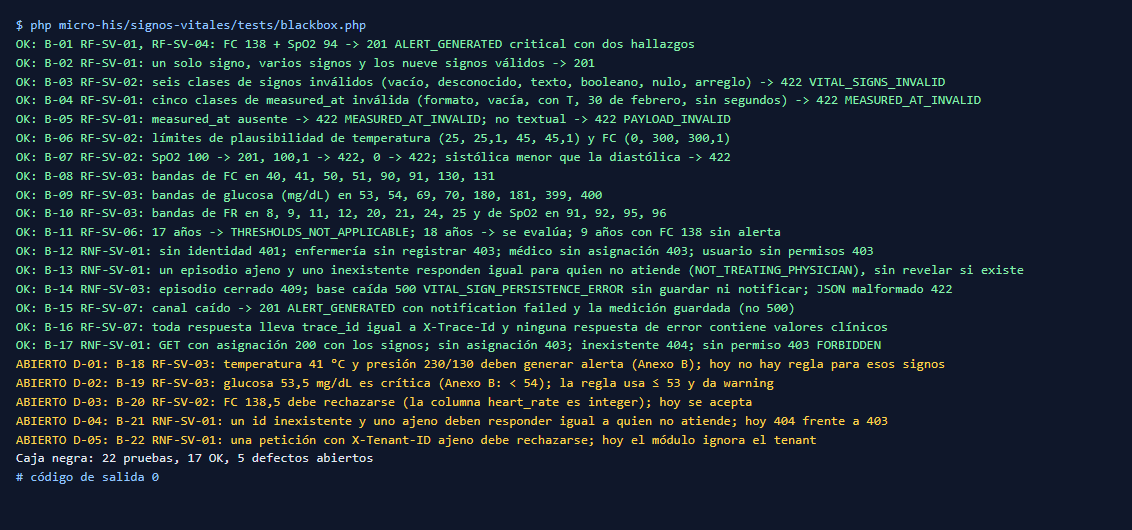
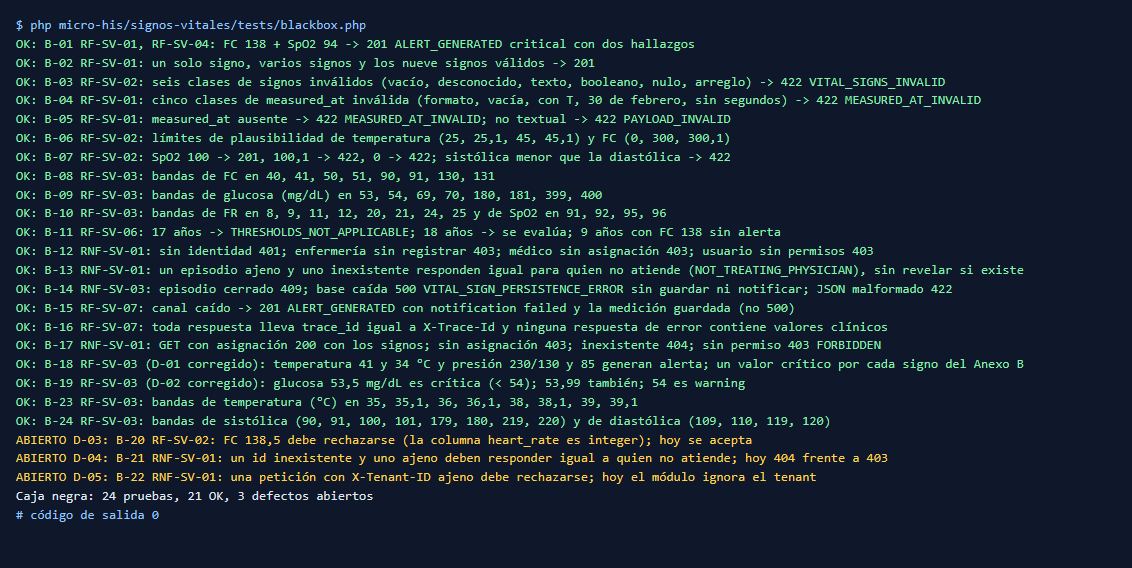
docs(semana-15): documentar la corrección de umbrales con su limitación clínica, actualizar la matriz y las capturas (ASII-13)

Changed region(s): [[0.0, 0.0302, 0.8966, 0.9358]]

diff --git a/docs/signos-vitales/semana-15/README.md b/docs/signos-vitales/semana-15/README.md
@@ -1,6 +1,6 @@
 # Signos vitales y alertas por valores anormales — Semana 15: pruebas unitarias, de caja blanca y de caja negra
 
-**Estudiante:** Hicho García, Josué Fernando (`Jhos-hgnu`) · **Módulo:** ASII-13 — Signos vitales y alertas por valores anormales · **Entrega:** 54 pruebas trazadas a RF/RNF, comandos, resultados, capturas y 6 defectos registrados.
+**Estudiante:** Hicho García, Josué Fernando (`Jhos-hgnu`) · **Módulo:** ASII-13 — Signos vitales y alertas por valores anormales · **Entrega:** 59 pruebas trazadas a RF/RNF, comandos, resultados, capturas y 6 defectos registrados (2 corregidos).
 
 ## Ficha de la asignación
 
@@ -20,26 +20,26 @@ PHP 8.3.33, ejecutado el 2026-10-20 sobre la rama de la Semana 15 (corrección d
 
 ```bash
 cd micro-his/signos-vitales
-php tests/unit.php        # 15 pruebas
+php tests/unit.php        # 18 pruebas
 php tests/whitebox.php    # 17 pruebas
-php tests/blackbox.php    # 22 pruebas
+php tests/blackbox.php    # 24 pruebas
 php tests/run.php && php tests/repository.php && php tests/api.php && php tests/client.php   # regresión: 56
 ```
 
 | Suite | Pruebas | OK | Fallos | Defectos abiertos | Captura |
 |---|---|---|---|---|---|
-| Unitarias (`unit.php`) | 15 | 14 | 0 | 1 | [unit](./capturas/unit.png) |
+| Unitarias (`unit.php`) | 18 | 17 | 0 | 1 | [unit](./capturas/unit.png) |
 | Caja blanca (`whitebox.php`) | 17 | 17 | 0 | 0 | [whitebox](./capturas/whitebox.png) |
-| Caja negra (`blackbox.php`) | 22 | 17 | 0 | 5 | [blackbox](./capturas/blackbox.png) |
+| Caja negra (`blackbox.php`) | 24 | 21 | 0 | 3 | [blackbox](./capturas/blackbox.png) |
 | Regresión (`run.php`, `repository.php`, `api.php`, `client.php`) | 56 | 56 | 0 | 0 | [regresion](./capturas/regresion.png) |
 
 Una prueba de defecto («ABIERTO») no rompe la suite; pasa a «OK» cuando el defecto se corrige. Un fallo sí termina con código 1.
 
 ## Diseño de las pruebas
 
-- **Unitarias (U-01 a U-14, más la prueba del defecto D-06):** una clase por vez, sin adaptadores: `VitalSigns` (rangos y presión), `HeartRateRule`, `OxygenSaturationRule`, `GlucoseRule`, `NoAlertRule`, `ThresholdEvaluator`, `Assessment`, `Severity` y `Uuid`. U-13 fija la unidad de las reglas (mg/dL).
+- **Unitarias (U-01 a U-17, más la prueba del defecto D-06):** una clase por vez, sin adaptadores: `VitalSigns` (rangos y presión), `HeartRateRule`, `OxygenSaturationRule`, `GlucoseRule`, `NoAlertRule`, `ThresholdEvaluator`, `Assessment`, `Severity` y `Uuid`. U-13 fija la unidad de las reglas (mg/dL).
 - **Caja blanca (W-01 a W-17):** `RecordVitalSigns::execute` se recorre en todas sus ramas (**12 de 12**: dominio, tres condiciones de la fecha, sin asignación, episodio cerrado, edad menor y mayor de 18, sin alerta, alerta con canal sano, canal caído con y sin manejador, y el orden de los pasos) y `ApiKernel::route` en sus **6 salidas** (fuera de `/api/v1`, sin identidad, ruta sin permiso, RBAC caído, sin permiso y permiso presente). Los espías cuentan las llamadas a `contextFor` y al canal para probar el orden y las omisiones.
-- **Caja negra (B-01 a B-22):** solo por `ApiKernel`, sin mirar el código. Clases válidas e inválidas de signos (seis) y de `measured_at` (cinco más ausente y no textual), límites de plausibilidad y de las bandas de FC, glucosa, FR y SpO2, edad 17 y 18, permisos (401, 403 por rol, por asignación y por falta de permisos), falla segura, canal caído, `trace_id` y consulta.
+- **Caja negra (B-01 a B-24):** solo por `ApiKernel`, sin mirar el código. Clases válidas e inválidas de signos (seis) y de `measured_at` (cinco más ausente y no textual), límites de plausibilidad y de las bandas de FC, glucosa, FR y SpO2, edad 17 y 18, permisos (401, 403 por rol, por asignación y por falta de permisos), falla segura, canal caído, `trace_id` y consulta.
 
 ## Matriz RF/RNF → prueba
 
@@ -47,13 +47,13 @@ Una prueba de defecto («ABIERTO») no rompe la suite; pasa a «OK» cuando el d
 |---|---|---|
 | RF-SV-01 · registrar solo el médico tratante, fecha válida | W-02 a W-06, W-12, B-01, B-02, B-04, B-05 | Cubierto |
 | RF-SV-02 · rechazar lo imposible | U-01 a U-03, W-01, B-03, B-06, B-07 | Cubierto; **D-03** |
-| RF-SV-03 · evaluar cada signo presente contra su umbral | U-04 a U-06, U-08, B-08 a B-10 | Parcial; **D-01**, **D-02** |
+| RF-SV-03 · evaluar cada signo presente contra su umbral | U-04 a U-06, U-08, U-15 a U-17, B-08 a B-10, B-18, B-19, B-23, B-24 | Cubierto; **D-01** y **D-02** corregidos |
 | RF-SV-04 · severidad máxima y alerta | U-09 a U-12, B-01 | Cubierto |
 | RF-SV-05 · peso y talla sin alerta | U-07, B-02 | Cubierto |
 | RF-SV-06 · sin perfil, guardar y avisar | W-07, B-11 | Cubierto |
 | RF-SV-07 · auditar y notificar después del `COMMIT` | W-08 a W-11, B-14 a B-16, regresión (`run.php`) | Cubierto |
 | RNF-SV-01 · seguridad | W-13 a W-17, B-12, B-13, B-17 | Parcial; **D-04**, **D-05**; la identidad por cabecera no se puede probar como defecto |
-| RNF-SV-02 · seguridad del paciente (ninguna regla oculta otra alerta) | U-08, B-01 | Cubierto; **D-01** (signos sin regla) |
+| RNF-SV-02 · seguridad del paciente (ninguna regla oculta otra alerta) | U-08, B-01 | Cubierto (D-01 corregido: ya todo signo del Anexo B tiene regla) |
 | RNF-SV-03 · consistencia | W-10, B-14, B-15, regresión | Cubierto |
 | RNF-SV-04 · rendimiento | — | **No probado aquí**: `bench.php` de la Semana 5 |
 | RNF-SV-05 · mantenibilidad (LSP) | U-08 | Cubierto |
@@ -63,8 +63,8 @@ Una prueba de defecto («ABIERTO») no rompe la suite; pasa a «OK» cuando el d
 
 | ID | Sev. | Prueba | Defecto | Corrección propuesta |
 |---|---|---|---|---|
-| **D-01** | Crítico | B-18 | **Temperatura, sistólica y diastólica no tienen regla de umbral**: 41 °C, 34 °C, 230/130 y 85 mmHg se guardan con `201 OK` y no generan alerta, aunque el Anexo B de la Semana 1 las define | Agregar tres subtipos de `RangeRule` con las bandas del Anexo B, validadas por el responsable clínico (riesgo R-01, métrica Q-06) |
-| **D-02** | Mayor | B-19 | La glucosa de 53,5 mg/dL es `warning`; el Anexo B dice crítica para `< 54`, y la regla usa `≤ 53`. Con decimales (por ejemplo 2,95 mmol/L = 53,15 mg/dL) hay una banda mal clasificada | Cambiar el límite a `< 54` o declarar las bandas como enteras y rechazar decimales |
+| **D-01** | Crítico | B-18 | **Temperatura, sistólica y diastólica no tienen regla de umbral**: 41 °C, 34 °C, 230/130 y 85 mmHg se guardan con `201 OK` y no generan alerta, aunque el Anexo B de la Semana 1 las define | **Corregido** ([umbrales](./umbrales/README.md)). Agregar tres subtipos de `RangeRule` con las bandas del Anexo B, validadas por el responsable clínico (riesgo R-01, métrica Q-06) |
+| **D-02** | Mayor | B-19 | La glucosa de 53,5 mg/dL es `warning`; el Anexo B dice crítica para `< 54`, y la regla usa `≤ 53`. Con decimales (por ejemplo 2,95 mmol/L = 53,15 mg/dL) hay una banda mal clasificada | **Corregido** ([umbrales](./umbrales/README.md)). Cambiar el límite a `< 54` o declarar las bandas como enteras y rechazar decimales |
 | **D-03** | Menor | B-20 | FC, FR y presión aceptan decimales (138,5), pero la columna es `integer` | Aceptar enteros en esos signos (decisión con Javier, riesgo R-10) |
 | **D-04** | Menor | B-21 | Un id inexistente responde `404` y uno ajeno `403`: se pueden enumerar identificadores (P-4) | Autorizar el episodio antes de revelar si la medición existe |
 | **D-05** | Crítico | B-22 | El módulo ignora `X-Tenant-ID`: una petición con un tenant ajeno se acepta (P-1, riesgo R-04) | Resolver el tenant en `ApiKernel` y acotar los repositorios, o documentar qué capa lo garantiza |

diff --git a/docs/signos-vitales/semana-15/umbrales/README.md b/docs/signos-vitales/semana-15/umbrales/README.md
@@ -1,0 +1,89 @@
+# Corrección de D-01 y D-02: reglas de umbral que faltaban (Semana 15)
+
+**Estudiante:** Hicho García, Josué Fernando (`Jhos-hgnu`) · **Módulo:** ASII-13 — Signos vitales y alertas por valores anormales · **Entrega:** corrección de dos defectos registrados por las [pruebas de la Semana 15](../README.md#defectos-registrados).
+
+## Aviso importante sobre estas cifras
+
+Las bandas de este documento son las del Anexo B de la [Semana 1](../../semana-01/narrativa-alcance-trazabilidad.md): un **perfil de referencia académico, ilustrativo, contrastado con NEWS2 y ADA por el autor, que no es médico ni tiene formación clínica certificada**. No tiene revisión clínica profesional y **no es apto para uso asistencial**. Quien lo adopte para atender pacientes debe hacerlo revisar por personal clínico. La revisión clínica externa sigue pendiente (riesgo R-03 del [plan SQA](../../semana-14/riesgos-controles.md)).
+
+## Qué se corrige
+
+| Defecto | Antes | Ahora |
+|---|---|---|
+| **D-01** (Crítico) | Temperatura, sistólica y diastólica no tenían regla: 41 °C, 34 °C, 230/130 o 85 mmHg se guardaban con `201 OK` y **no generaban alerta** | Tres reglas nuevas, `TemperatureRule`, `SystolicBpRule` y `DiastolicBpRule`, subtipos de `RangeRule`, registradas en `app.php` |
+| **D-02** (Mayor) | La glucosa de 53,5 mg/dL daba `warning`; el Anexo B dice crítica para `< 54` y la regla usaba `≤ 53` | `RangeRule` admite un crítico bajo exclusivo (`critLowExclusive`); `GlucoseRule` lo usa con 54: crítica con `< 54`, también con decimales |
+
+El resto de las reglas no cambia: el parámetro nuevo de `RangeRule` es opcional y vale `false`, así que la frecuencia cardiaca, la respiratoria y la saturación se comportan igual.
+
+## Bandas
+
+`crítico bajo` se lee `≤` salvo en la glucosa (`<`). Las bandas son las del Anexo B.
+
+| Signo | Unidad | Advertencia | Crítico | Regla |
+|---|---|---|---|---|
+| Temperatura | °C | 35,1–36,0 o 38,1–39,0 | ≤ 35,0 o ≥ 39,1 | `TemperatureRule` (nueva) |
+| Sistólica | mmHg | 91–100 o 180–219 | ≤ 90 o ≥ 220 | `SystolicBpRule` (nueva) |
+| Diastólica | mmHg | 110–119 | ≥ 120 | `DiastolicBpRule` (nueva, solo banda alta) |
+| Glucosa | mg/dL | 54–69 o 181–399 | < 54 o ≥ 400 | `GlucoseRule` (límite corregido) |
+
+## Contraste con NEWS2 (hecho por el autor, de memoria)
+
+Se compararon las bandas con la tabla de NEWS2 del Royal College of Physicians (2017). **El autor no pudo consultar la fuente al escribirlo y no es clínico: quien lo revise debe confirmarlo contra la tabla oficial.**
+
+| Signo | Coincidencia con NEWS2 | Nota |
+|---|---|---|
+| Temperatura | Coincide con las bandas de la escala | |
+| Sistólica ≤ 90 y ≥ 220, 91–100 | Coincide | |
+| **Sistólica 180–219** | **No viene de NEWS2** | Banda agregada en la Semana 1 |
+| **Diastólica** | **No existe en NEWS2** | Banda agregada en la Semana 1; es la más débil del perfil y la que más conviene revisar |
+| Glucosa | La ADA define la hipoglucemia nivel 2 por debajo de 54 mg/dL | Coincide con el crítico `< 54` |
+
+## Verificación
+
+```bash
+cd micro-his/signos-vitales
+php tests/unit.php && php tests/whitebox.php && php tests/blackbox.php
+php tests/run.php && php tests/repository.php && php tests/api.php && php tests/client.php
+php ../../docs/signos-vitales/semana-07/evidencia/demo-refactor.php
+```
+
+Todo termina con código de salida 0 (PHP 8.3.33). Pruebas nuevas o actualizadas:
+
+| Prueba | Qué comprueba |
+|---|---|
+| U-15 | Bandas de temperatura en cada límite (35, 35,1, 36, 36,1, 38, 38,1, 39, 39,1) |
+| U-16 | Bandas de sistólica (90 a 220) y diastólica (109 a 120) en sus límites |
+| U-17 | Glucosa con decimales: 53,5 y 53,99 críticas; 54 warning |
+| U-08 | Las **nueve** reglas no lanzan ni alertan ante una medición sin su signo |
+| B-18, B-19 | Los antiguos defectos D-01 y D-02 pasan de «ABIERTO» a «OK» |
+| B-23, B-24 | Los límites de temperatura, sistólica y diastólica por la API |
+| B-06 | Actualizada: 25,1 °C y 45 °C son plausibles pero ahora críticos (antes no alertaban) |
+
+Resultado: unitarias 18 pruebas (17 OK, 1 defecto abierto), caja blanca 17 (17 OK), caja negra 24 (21 OK, 3 defectos abiertos), regresión 56 (56 OK). Quedan abiertos D-03, D-04, D-05 y D-06.
+
+**Sensibilidad (mutaciones).** Se cambió una línea, se ejecutaron las tres suites y se restauró el archivo. Las **seis mutaciones nuevas se detectaron**:
+
+| Mutación | Resultado |
+|---|---|
+| `TemperatureRule`: crítico alto en 39,2 | 2 fallos |
+| `SystolicBpRule`: crítico alto en 221 | 2 fallos |
+| `DiastolicBpRule`: advertencia desde 111 | 2 fallos |
+| `GlucoseRule`: crítico bajo inclusivo (`≤ 54`) | 2 fallos |
+| `app.php` sin la regla de temperatura | 1 fallo |
+| `app.php` sin las reglas de presión | 1 fallo |
+
+Con ellas, de las 15 mutaciones aplicadas a lo largo de la Semana 15, 14 se detectan y una, equivalente por construcción, sobrevive como control. La mutación «Glucosa: crítico alto en 401» ya no aplica porque se cambió la línea de `GlucoseRule`.
+
+Las capturas `unit.png` y `blackbox.png` de la Semana 15 se regeneraron con el resultado nuevo.
+
+## Efectos y límites
+
+- La API no cambia de forma: una medición con temperatura o presión anormales ahora devuelve `ALERT_GENERATED` y `findings` con ese signo, como ya hacía con los demás.
+- Las bandas siguen siendo del perfil de adultos (18 años o más); los menores continúan con `THRESHOLDS_NOT_APPLICABLE`.
+- Los valores entre bandas (por ejemplo, 36,05 °C) no están definidos en el Anexo B y se tratan como normales.
+- La unidad sigue siendo la implícita (°C y mmHg); D-06 queda abierto.
+
+## Archivos
+
+- [Declaración de uso de IA](./DECLARACION_IA.md)
+- Código: `micro-his/signos-vitales/src/Domain/` (`TemperatureRule.php`, `SystolicBpRule.php`, `DiastolicBpRule.php`, `RangeRule.php`, `GlucoseRule.php`), `app.php` y `tests/`.

diff --git a/docs/signos-vitales/semana-14/metricas.md b/docs/signos-vitales/semana-14/metricas.md
@@ -11,7 +11,7 @@ Siete métricas para «captura de signos vitales, evaluación de umbrales y gene
 | **Q-03** | Respuestas inseguras o sin código | POST con `5xx` ÷ POST totales; respuestas sin `code` o `trace_id` ÷ totales; respuestas que contradicen lo guardado | `5xx` **≤ 1 %**; sin `code` o `trace_id` **0 %**; contradicciones **0** | Bitácora de `ApiKernel` y el registro `notification_failed` | Semanal | Autor | Investigar con el `trace_id` y abrir hallazgo; una contradicción es Crítica | Sin datos de uso: en las pruebas, 0 `5xx` fuera de los simulados |
 | **Q-04** | Latencia al registrar | p95 de `POST /care-episodes/{id}/vital-signs` | **≤ 300 ms** (RNF-SV-04) | `tests/bench.php` como referencia en proceso; bitácora con duración (**hoy no se registra**; acción: agregarla) | Semanal | Autor | Perfilar la consulta de asignación y la auditoría; no se aceptan reintentos para ocultar la lentitud | p95 de 0,087 ms con PDO sobre SQLite, en proceso y sin red |
 | **Q-05** | Rechazo de accesos indebidos | Pruebas negativas que devuelven `401`/`403`/`503` ÷ pruebas negativas (sin identidad, sin permiso, sin asignación, RBAC caído, **tenant ajeno**) | **100 %**; 0 respuestas `200` a un acceso indebido | `tests/api.php` y la prueba de caja negra de la Semana 15 | Cada PR | Revisora y María (ASII-02) | Hallazgo Crítico; el PR no se integra | 100 % en los casos que existen; **tenant sin código ni prueba** (P-1) |
-| **Q-06** | Cobertura del perfil de umbrales | Signos con regla en el código ÷ signos con umbral definido en el Anexo B de la Semana 1 | **100 %** | Prueba de caja negra de la Semana 15: una medición fuera de umbral por cada signo del Anexo B | Cada PR que toque reglas | Autor (dueño del perfil) | Agregar la regla del signo o declarar por escrito que se excluye; hasta entonces, el valor anormal de ese signo **no genera alerta** | **4 de 7** (faltan temperatura, sistólica y diastólica) |
+| **Q-06** | Cobertura del perfil de umbrales | Signos con regla en el código ÷ signos con umbral definido en el Anexo B de la Semana 1 | **100 %** | Prueba de caja negra de la Semana 15: una medición fuera de umbral por cada signo del Anexo B | Cada PR que toque reglas | Autor (dueño del perfil) | Agregar la regla del signo o declarar por escrito que se excluye; hasta entonces, el valor anormal de ese signo **no genera alerta** | **4 de 7** el 2026-10-20 (faltaban temperatura, sistólica y diastólica); **7 de 7** tras el [PR de umbrales](../semana-15/umbrales/README.md) |
 | **Q-07** | Trazabilidad y privacidad de la auditoría | Mediciones sin evento de auditoría ÷ total; eventos con valores clínicos | **0 %** y **0 eventos** | `local_access_audits` (consultas Q-TRZ y Q-PRIV); en pruebas, `InMemoryVitalSignRepository::$audits` | Semanal | Javier y Autor | Hallazgo Crítico; se repara la escritura y se concilia el faltante | En pruebas 0 %; la tabla real **no existe** todavía (slice H8) |
 
 ## Cómo se mide cada una

diff --git a/docs/signos-vitales/semana-15/umbrales/DECLARACION_IA.md b/docs/signos-vitales/semana-15/umbrales/DECLARACION_IA.md
@@ -1,0 +1,11 @@
+# Declaración de uso de inteligencia artificial
+
+**Herramienta:** Claude Code (Anthropic) con el modelo Claude Sonnet 5.5.
+
+**Propósito:** apoyo para corregir los defectos D-01 (reglas de temperatura y presión que faltaban) y D-02 (límite crítico de la glucosa con decimales) registrados por las pruebas de la Semana 15, escribir sus pruebas y mutaciones, regenerar las capturas y redactar la documentación.
+
+**Prompt relevante:** «Utilicemos el 2 siempre teniendo el cuidado de que no soy un médico certificado», aplicado a `ASII-13`, «captura de signos vitales, evaluación de umbrales y generación de alerta».
+
+**Contenido aceptado o modificado:** las bandas son las del Anexo B de la Semana 1, copiadas sin cambios; **no están validadas clínicamente**, el autor no es médico certificado y el perfil no es apto para uso asistencial. El contraste con NEWS2 lo hizo la IA de memoria, sin poder consultar la fuente, y debe confirmarse contra la tabla oficial; las bandas de sistólica 180–219 y de diastólica no vienen de NEWS2. Las pruebas y las mutaciones se ejecutaron con PHP 8.3.33 y su salida se copió sin cambios. Los defectos D-03 a D-06 no se corrigen.
+
+**Validación humana:** realizada el 2026-10-20. Josué Fernando Hicho García revisó el código, las pruebas, la documentación y esta declaración, y la aprueba, con la limitación de que el perfil de umbrales no tiene revisión clínica profesional.

diff --git a/docs/signos-vitales/semana-14/README.md b/docs/signos-vitales/semana-14/README.md
@@ -63,7 +63,7 @@ Línea base medida el 2026-10-20 con PHP 8.3.33:
 | Verificaciones automáticas | 56: `run.php` 25, `repository.php` 9, `api.php` 14, `client.php` 8; todas pasan |
 | RF con prueba | 7 de 7 |
 | Revisión formal | Preparada; 8 puntos de atención, 2 corregidos (P-2 y P-3) |
-| Cobertura del perfil de umbrales | **4 de 7 signos con umbral definido** tienen regla en el código (faltan temperatura, sistólica y diastólica) |
+| Cobertura del perfil de umbrales | **4 de 7 signos con umbral definido** tenían regla el 2026-10-20 (faltaban temperatura, sistólica y diastólica); ya son 7 de 7 tras el [PR de umbrales](../semana-15/umbrales/README.md) |
 | Auditoría local | Tabla mínima de prueba; `local_access_audits` aún sin migración |
 
 ## Archivos
